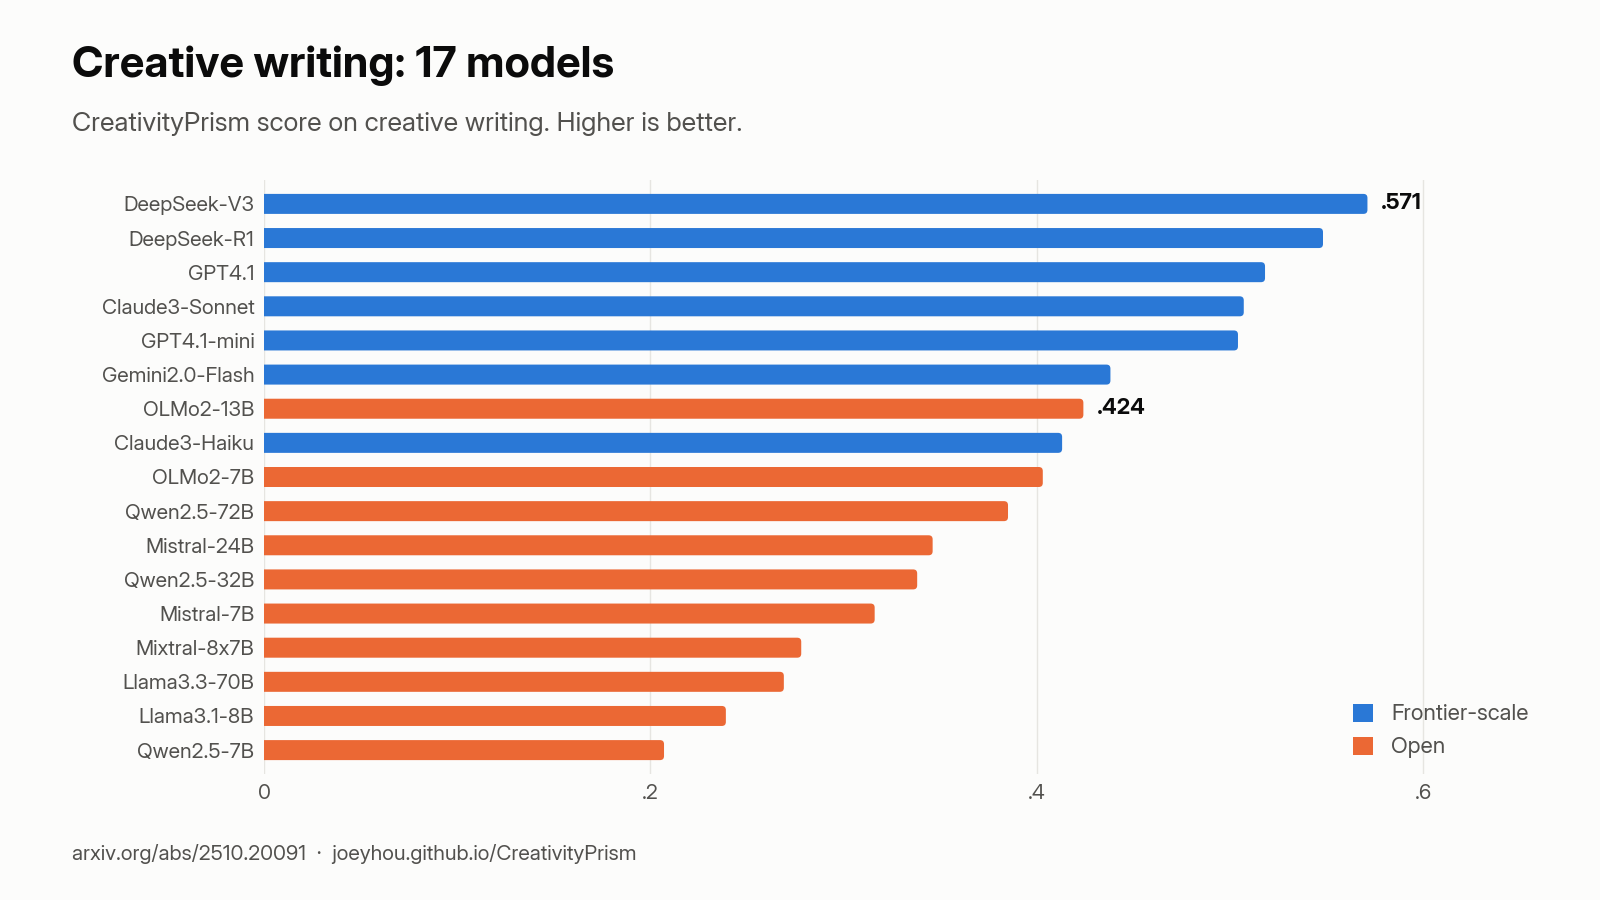
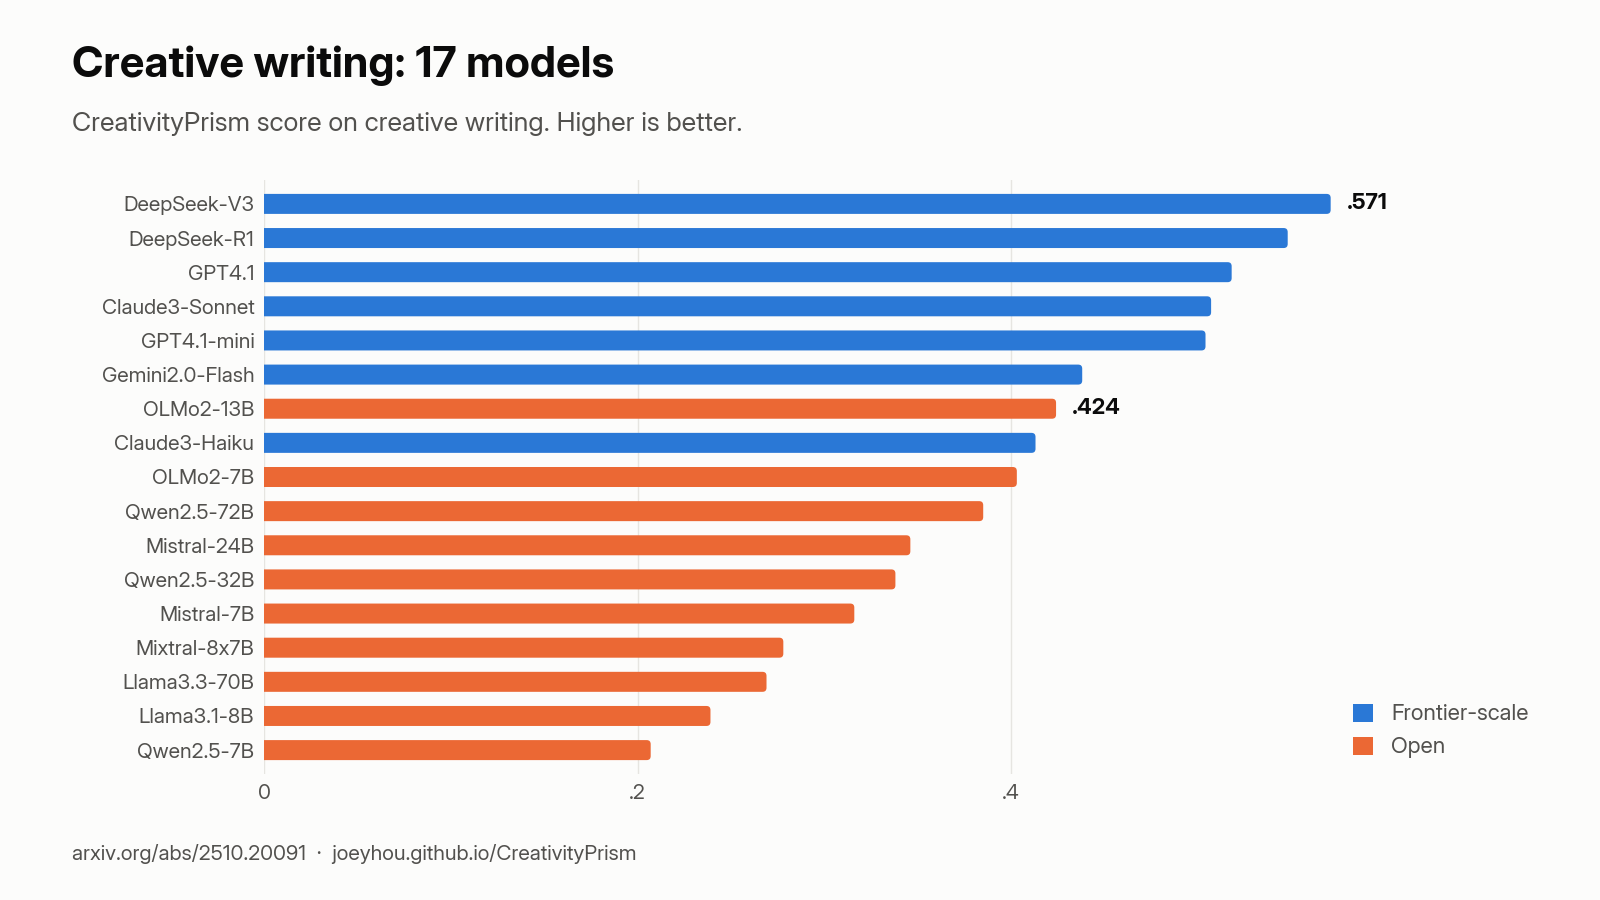
Add the three composite figures, since X takes four images
A post gets four slots, so the seven rankings travel as two panels and the two
analysis charts as a third: panel_domains, panel_dimensions, panel_gap_time.
With ranking_overall that is exactly four.

The panel work is a refactor, not a second implementation: draw_ranking,
draw_gap and draw_time now take an axes, and both the singles and the
composites call them. A composite cannot drift away from its single.

Inside a panel the type and marks step down -- 6.5pt labels, 13px bars, only
the leader labelled -- and the gap panel drops its per-column values, which at
that width sat on top of the bars.

Rendered and read at each step, which is how the clipped model names, the
footer sitting on the tick labels and the two titles stepping down across the
figure were found.

diff --git a/release/social/make_figures.py b/release/social/make_figures.py
@@ -3,20 +3,25 @@
 
     python release/social/make_figures.py
 
-Everything is 1600x900 and built from the paper's own LaTeX -- the score table
-and the model-details table -- so a change to the paper shows up here as a
-changed figure rather than as a figure that quietly disagrees with it.
+Numbers come from the paper's own LaTeX -- the score table for the scores, the
+appendix's model table for release dates -- so a change to the paper shows up
+here as a changed figure rather than as a figure that quietly disagrees with it.
+`verify_figures.py` checks them against arXiv and the website.
 
-    ranking_overall.png        17 models, ranked
-    ranking_<dimension>.png    quality / novelty / diversity
-    ranking_<domain>.png       cw / dt / lr
-    gap_vs_frontier.png        how far each open size class sits behind the frontier
-    score_over_time.png        score against model release date
+Singles (1600x900):
+    ranking_<metric>.png   overall, the three dimensions, the three domains
+    gap_vs_frontier.png    how far each open size class sits behind the frontier
+    score_over_time.png    score against release date
 
-Type is Inter (fonts/, OFL). Colours come from the validated categorical
-palette: two hues for the ranking charts, and for the gap chart a three-step
-blue ramp, because size classes are an ordered quantity rather than unrelated
-categories, plus one accent for the all-open average.
+Composites, because X allows four images per post:
+    panel_domains.png      the three domain rankings
+    panel_dimensions.png   the three dimension rankings
+    panel_gap_time.png     the gap chart beside the trend chart
+
+Type is Inter (fonts/, OFL). Colour comes from the validated categorical
+palette: two hues for rankings, and for the gap chart a three-step blue ramp,
+because size classes are an ordered quantity rather than unrelated categories,
+plus one accent for the all-open summary.
 """
 import re
 from datetime import date
@@ -41,13 +46,14 @@ SURFACE = "#fcfcfb"
 INK = "#0b0b0b"
 INK_2 = "#52514e"
 GRID = "#e6e5e1"
-FRONTIER = "#2a78d6"   # categorical slot 1
-OPEN = "#eb6834"       # categorical slot 2
-RAMP = ["#9dc3f0", "#5a9ae3", "#1f5fa9"]   # ordered sizes: one hue, light -> dark
+FRONTIER = "#2a78d6"
+OPEN = "#eb6834"
+RAMP = ["#9dc3f0", "#5a9ae3", "#1f5fa9"]
 ACCENT = "#eb6834"
 
 DPI = 200
-FIGSIZE = (8, 4.5)     # -> 1600 x 900
+FIGSIZE = (8, 4.5)          # -> 1600 x 900
+SOURCE = "arxiv.org/abs/2510.20091  ·  joeyhou.github.io/CreativityPrism"
 
 METRICS = {
     "overall": "Overall creativity score",
@@ -58,8 +64,14 @@ METRICS = {
     "dt": "Divergent thinking",
     "lr": "Logical reasoning",
 }
+DIMENSIONS = ["quality", "novelty", "diversity"]
+DOMAINS = ["cw", "dt", "lr"]
 SIZE_CLASSES = ["<10B", "10-40B", "40-80B"]
+TREND = [("quality", "Quality", "#2a78d6"), ("novelty", "Novelty", "#eb6834"),
+         ("diversity", "Diversity", "#1baf7a")]
 
+
+# ---------- data ----------
 
 def use_inter():
     for ttf in sorted(FONTS.glob("Inter-*.ttf")):
@@ -72,7 +84,7 @@ def use_inter():
 def load_table():
     """Model -> scores + size class, read out of the paper's own table."""
     body = TABLE.read_text().split("\\begin{table}[h]")[1]
-    cols = ["overall", "quality", "novelty", "diversity", "cw", "dt", "lr"]
+    cols = list(METRICS)
     data, group = {}, None
     for line in body.splitlines():
         line = line.strip()
@@ -100,6 +112,14 @@ def load_release_dates():
             out[m.group(1)] = date(int(m.group(3)), int(m.group(2)), 1)
     return out
 
+
+def open_groups(data):
+    members = {c: [m for m in data if data[m]["group"] == c] for c in SIZE_CLASSES}
+    members["Open (all)"] = [m for m in data if data[m]["group"] != "Frontier-scale"]
+    return members
+
+
+# ---------- drawing primitives ----------
 
 def _px(ax, px):
     inv = ax.transData.inverted()
@@ -135,76 +155,61 @@ def bare(ax, axis="x"):
     ax.tick_params(axis="both", length=0, labelsize=7.5, colors=INK_2)
 
 
-def titles(fig, title, subtitle, note):
-    fig.text(0.045, 0.95, title, fontsize=15.5, fontweight="bold", color=INK, va="top")
-    fig.text(0.045, 0.876, subtitle, fontsize=9.5, color=INK_2, va="top")
+def titles(fig, title, subtitle, note, y=0.95):
+    fig.text(0.045, y, title, fontsize=15.5, fontweight="bold", color=INK, va="top")
+    if subtitle:
+        fig.text(0.045, y - 0.074, subtitle, fontsize=9.5, color=INK_2, va="top")
     fig.text(0.045, 0.04, note, fontsize=7.5, color=INK_2, va="bottom")
 
 
-def fig_ranking(data, metric):
-    models = sorted(data, key=lambda m: -data[m][metric])
-    fig, ax = plt.subplots(figsize=FIGSIZE, dpi=DPI)
-    fig.patch.set_facecolor(SURFACE)
-    fig.subplots_adjust(left=0.165, right=0.965, top=0.80, bottom=0.14)
+def group_legend(target, loc="lower right", **kw):
+    handles = [Patch(facecolor=FRONTIER, label="Frontier-scale"),
+               Patch(facecolor=OPEN, label="Open")]
+    leg = target.legend(handles=handles, loc=loc, frameon=False, fontsize=8,
+                        handlelength=0.9, handleheight=0.9, borderpad=0.2, **kw)
+    for t in leg.get_texts():
+        t.set_color(INK_2)
 
+
+# ---------- panels ----------
+
+def draw_ranking(ax, data, metric, label_size=8, bar_px=20, compact=False):
+    """One ranked bar chart. Used standalone and inside the composites."""
+    models = sorted(data, key=lambda m: -data[m][metric])
     top = max(data[m][metric] for m in models)
-    ax.set_xlim(0, top * 1.16)
+    ax.set_xlim(0, top * (1.3 if compact else 1.2))
     ax.set_ylim(-0.7, len(models) - 0.3)
-    _, height = _px(ax, 20)
+    _, height = _px(ax, bar_px)
 
     best_open = max((m for m in models if data[m]["group"] != "Frontier-scale"),
                     key=lambda m: data[m][metric])
+    marked = {models[0]} if compact else {models[0], best_open}
     for i, m in enumerate(models):
         v = data[m][metric]
         color = FRONTIER if data[m]["group"] == "Frontier-scale" else OPEN
         rounded_bar(ax, 0, len(models) - 1 - i, v, height, color)
-        if m in (models[0], best_open):
-            ax.text(v + top * 0.012, len(models) - 1 - i, "{:.3f}".format(v).lstrip("0"),
-                    va="center", ha="left", fontsize=8, color=INK, fontweight="bold")
+        if m in marked:
+            ax.text(v + top * 0.015, len(models) - 1 - i, "{:.3f}".format(v).lstrip("0"),
+                    va="center", ha="left", fontsize=label_size, color=INK,
+                    fontweight="bold")
 
     ax.set_yticks(range(len(models)))
-    ax.set_yticklabels(list(reversed(models)), fontsize=8, color=INK)
+    ax.set_yticklabels(list(reversed(models)), fontsize=label_size, color=INK)
     bare(ax, "x")
-    ticks = [t for t in (0, 0.2, 0.4, 0.6, 0.8) if t <= top * 1.16]
+    ticks = [t for t in (0, 0.2, 0.4, 0.6, 0.8) if t <= top * 1.05]
     ax.set_xticks(ticks)
     ax.set_xticklabels(["0"] + ["{:.1f}".format(t).lstrip("0") for t in ticks[1:]])
 
-    leg = ax.legend(handles=[Patch(facecolor=FRONTIER, label="Frontier-scale"),
-                             Patch(facecolor=OPEN, label="Open")],
-                    loc="lower right", frameon=False, fontsize=8,
-                    handlelength=0.9, handleheight=0.9, borderpad=0.2)
-    for t in leg.get_texts():
-        t.set_color(INK_2)
 
-    name = METRICS[metric]
-    title = name if metric == "overall" else "{}: 17 models".format(name)
-    sub = ("CreativityPrism: 8 tasks, averaged over quality, novelty and diversity. Higher is better."
-           if metric == "overall" else
-           "CreativityPrism score on {}. Higher is better.".format(name.lower()))
-    titles(fig, title, sub, "arxiv.org/abs/2510.20091  ·  joeyhou.github.io/CreativityPrism")
-    fig.savefig(OUT / "ranking_{}.png".format(metric), facecolor=SURFACE)
-    plt.close(fig)
-
-
-def fig_gap(data):
-    """How far each open size class sits behind the frontier, per metric.
-
-    The paper's Figure 3(b) hangs four bars downward per metric. Same data; the
-    size classes ride one blue ramp because they are an ordered quantity, and
-    the all-open average takes the accent hue because it is a summary rather
-    than a fourth size.
-    """
+def draw_gap(ax, data, label_size=8.5, value_labels=True):
+    """Each open size class hanging below the frontier mean, per metric."""
     front = [m for m in data if data[m]["group"] == "Frontier-scale"]
-    avg = lambda ms, c: sum(data[m][c] for m in ms) / len(ms)
-    classes = SIZE_CLASSES + ["Open (all)"]
-    members = {c: [m for m in data if data[m]["group"] == c] for c in SIZE_CLASSES}
-    members["Open (all)"] = [m for m in data if data[m]["group"] != "Frontier-scale"]
+    members = open_groups(data)
+    classes = list(members)
     colors = dict(zip(classes, RAMP + [ACCENT]))
+    avg = lambda ms, c: sum(data[m][c] for m in ms) / len(ms)
     keys = list(METRICS)
 
-    fig, ax = plt.subplots(figsize=FIGSIZE, dpi=DPI)
-    fig.patch.set_facecolor(SURFACE)
-    fig.subplots_adjust(left=0.075, right=0.975, top=0.78, bottom=0.19)
     ax.set_xlim(-0.6, len(keys) - 0.4)
     ax.set_ylim(-0.34, 0.012)
     width, _ = _px(ax, 13)
@@ -214,17 +219,18 @@ def fig_gap(data):
     for i, k in enumerate(keys):
         worst = 0
         for j, c in enumerate(classes):
-            v = avg(members[c], k) - avg(front, k)      # negative: behind
+            v = avg(members[c], k) - avg(front, k)
             rounded_bar(ax, i - span / 2 + j * (width + gap), 0, width, v,
                         colors[c], horizontal=False)
             worst = min(worst, v)
-        ax.text(i, worst - 0.012, "{:.2f}".format(worst), ha="center", va="top",
-                fontsize=7.5, color=INK_2)
+        if value_labels:
+            ax.text(i, worst - 0.012, "{:.2f}".format(worst), ha="center", va="top",
+                    fontsize=7.5, color=INK_2)
 
     ax.axhline(0, color=INK_2, linewidth=0.8)
     ax.set_xticks(range(len(keys)))
     ax.set_xticklabels([METRICS[k].replace("Overall creativity score", "Overall").replace(" ", "\n")
-                        for k in keys], fontsize=8.5, color=INK)
+                        for k in keys], fontsize=label_size, color=INK)
     bare(ax, "y")
     ax.set_yticks([0, -0.1, -0.2, -0.3])
     ax.set_yticklabels(["0", "-.1", "-.2", "-.3"])
@@ -235,26 +241,14 @@ def fig_gap(data):
                     columnspacing=1.4)
     for t in leg.get_texts():
         t.set_color(INK_2)
-    titles(fig, "How far open models sit behind the frontier",
-           "Mean score of each open size class minus the frontier-scale mean. Zero is parity.",
-           "Label marks the widest gap in each column  ·  arxiv.org/abs/2510.20091")
-    fig.savefig(OUT / "gap_vs_frontier.png", facecolor=SURFACE)
-    plt.close(fig)
 
 
-def fig_time(data, dates):
-    """Score against release date, one trend line per dimension."""
-    series = [("quality", "Quality", "#2a78d6"), ("novelty", "Novelty", "#eb6834"),
-              ("diversity", "Diversity", "#1baf7a")]
+def draw_time(ax, data, dates, label_size=9):
+    """Score against release date, one least-squares trend per dimension."""
     models = [m for m in data if m in dates]
-
-    fig, ax = plt.subplots(figsize=FIGSIZE, dpi=DPI)
-    fig.patch.set_facecolor(SURFACE)
-    fig.subplots_adjust(left=0.07, right=0.86, top=0.78, bottom=0.15)
-
     xs = np.array([dates[m].toordinal() for m in models], dtype=float)
     ends = []
-    for key, label, color in series:
+    for key, label, color in TREND:
         ys = np.array([data[m][key] for m in models])
         ax.scatter(xs, ys, s=16, color=color, alpha=0.5, linewidths=0, zorder=2)
         b, a = np.polyfit(xs, ys, 1)
@@ -263,18 +257,16 @@ def fig_time(data, dates):
                 zorder=3)
         ends.append((a + b * grid[-1], label))
 
-    # Two trends can finish at the same height; stacked labels are unreadable,
-    # so nudge them apart rather than letting them overprint.
     ends.sort()
     placed = []
     for y, label in ends:
-        if placed and y - placed[-1] < 0.035:
-            y = placed[-1] + 0.035
+        if placed and y - placed[-1] < 0.04:
+            y = placed[-1] + 0.04
         placed.append(y)
-        ax.text(xs.max() + 20, y, label, color=INK, fontsize=9,
+        ax.text(xs.max() + 20, y, label, color=INK, fontsize=label_size,
                 va="center", ha="left")
 
-    ticks = [date(y, m, 1) for y, m in [(2024, 1), (2024, 7), (2025, 1), (2025, 7)]]
+    ticks = [date(y, m, 1) for y, m in [(2024, 1), (2024, 7), (2025, 1)]]
     ax.set_xticks([t.toordinal() for t in ticks])
     ax.set_xticklabels([t.strftime("%b %Y") for t in ticks])
     ax.set_xlim(xs.min() - 30, xs.max() + 30)
@@ -282,10 +274,86 @@ def fig_time(data, dates):
     bare(ax, "y")
     ax.set_yticks([0.2, 0.4, 0.6, 0.8])
     ax.set_yticklabels([".2", ".4", ".6", ".8"])
+
+
+# ---------- figures ----------
+
+def fig_ranking(data, metric):
+    fig, ax = plt.subplots(figsize=FIGSIZE, dpi=DPI)
+    fig.patch.set_facecolor(SURFACE)
+    fig.subplots_adjust(left=0.165, right=0.965, top=0.80, bottom=0.14)
+    draw_ranking(ax, data, metric)
+    group_legend(ax)
+    name = METRICS[metric]
+    titles(fig, name if metric == "overall" else "{}: 17 models".format(name),
+           "CreativityPrism: 8 tasks, averaged over quality, novelty and diversity. Higher is better."
+           if metric == "overall" else
+           "CreativityPrism score on {}. Higher is better.".format(name.lower()),
+           SOURCE)
+    fig.savefig(OUT / "ranking_{}.png".format(metric), facecolor=SURFACE)
+    plt.close(fig)
+
+
+def fig_gap(data):
+    fig, ax = plt.subplots(figsize=FIGSIZE, dpi=DPI)
+    fig.patch.set_facecolor(SURFACE)
+    fig.subplots_adjust(left=0.075, right=0.975, top=0.78, bottom=0.19)
+    draw_gap(ax, data)
+    titles(fig, "How far open models sit behind the frontier",
+           "Mean score of each open size class minus the frontier-scale mean. Zero is parity.",
+           "Label marks the widest gap in each column  ·  arxiv.org/abs/2510.20091")
+    fig.savefig(OUT / "gap_vs_frontier.png", facecolor=SURFACE)
+    plt.close(fig)
+
+
+def fig_time(data, dates):
+    fig, ax = plt.subplots(figsize=FIGSIZE, dpi=DPI)
+    fig.patch.set_facecolor(SURFACE)
+    fig.subplots_adjust(left=0.07, right=0.86, top=0.78, bottom=0.15)
+    draw_time(ax, data, dates)
     titles(fig, "Newer models score higher",
            "Each model's score against its release date, with a least-squares trend per dimension.",
            "17 models; release dates from the paper's appendix  ·  arxiv.org/abs/2510.20091")
     fig.savefig(OUT / "score_over_time.png", facecolor=SURFACE)
+    plt.close(fig)
+
+
+def fig_panel_rankings(data, metrics, filename, title, subtitle):
+    """Three rankings side by side: X allows four images, so these travel together.
+
+    Each panel is sorted on its own metric -- the orders differ, which is the
+    point -- so every panel carries its own model names.
+    """
+    fig, axes = plt.subplots(1, 3, figsize=FIGSIZE, dpi=DPI)
+    fig.patch.set_facecolor(SURFACE)
+    # Room for three sets of model names, three value labels, and the footer.
+    fig.subplots_adjust(left=0.107, right=0.973, top=0.745, bottom=0.145, wspace=0.62)
+    for ax, metric in zip(axes, metrics):
+        draw_ranking(ax, data, metric, label_size=6.5, bar_px=13, compact=True)
+        ax.set_title(METRICS[metric], fontsize=10, color=INK, fontweight="bold", pad=6)
+    group_legend(fig, loc="upper right", bbox_to_anchor=(0.985, 0.985), ncol=2)
+    titles(fig, title, subtitle, SOURCE)
+    fig.savefig(OUT / filename, facecolor=SURFACE)
+    plt.close(fig)
+
+
+def fig_panel_gap_time(data, dates):
+    fig, axes = plt.subplots(1, 2, figsize=FIGSIZE, dpi=DPI,
+                             gridspec_kw={"width_ratios": [1.3, 1], "wspace": 0.22})
+    fig.patch.set_facecolor(SURFACE)
+    fig.subplots_adjust(left=0.055, right=0.90, top=0.70, bottom=0.17)
+    draw_gap(axes[0], data, label_size=7, value_labels=False)
+    axes[0].set_title("Gap to the frontier, by metric", fontsize=10, color=INK,
+                      fontweight="bold", pad=26)
+    draw_time(axes[1], data, dates, label_size=8)
+    # Same pad as the left panel, whose title has to clear its legend: the two
+    # titles then sit on one line instead of stepping down across the figure.
+    axes[1].set_title("Score against release date", fontsize=10, color=INK,
+                      fontweight="bold", pad=26)
+    titles(fig, "Where the gap is, and where the field is heading",
+           "Left: each open size class minus the frontier-scale mean, by metric. "
+           "Right: every model's score against its release date.", SOURCE)
+    fig.savefig(OUT / "panel_gap_time.png", facecolor=SURFACE)
     plt.close(fig)
 
 
@@ -296,10 +364,18 @@ def main():
     missing = [m for m in data if m not in dates]
     if missing:
         raise SystemExit("no release date for: {}".format(missing))
+
     for metric in METRICS:
         fig_ranking(data, metric)
     fig_gap(data)
     fig_time(data, dates)
+    fig_panel_rankings(data, DOMAINS, "panel_domains.png",
+                       "Creativity by domain",
+                       "CreativityPrism scores, ranked within each domain. Higher is better.")
+    fig_panel_rankings(data, DIMENSIONS, "panel_dimensions.png",
+                       "Creativity by dimension",
+                       "CreativityPrism scores, ranked within each dimension. Higher is better.")
+    fig_panel_gap_time(data, dates)
     for f in sorted(OUT.glob("*.png")):
         print("{:26s} {:>5.0f} KB".format(f.name, f.stat().st_size / 1024))
 
